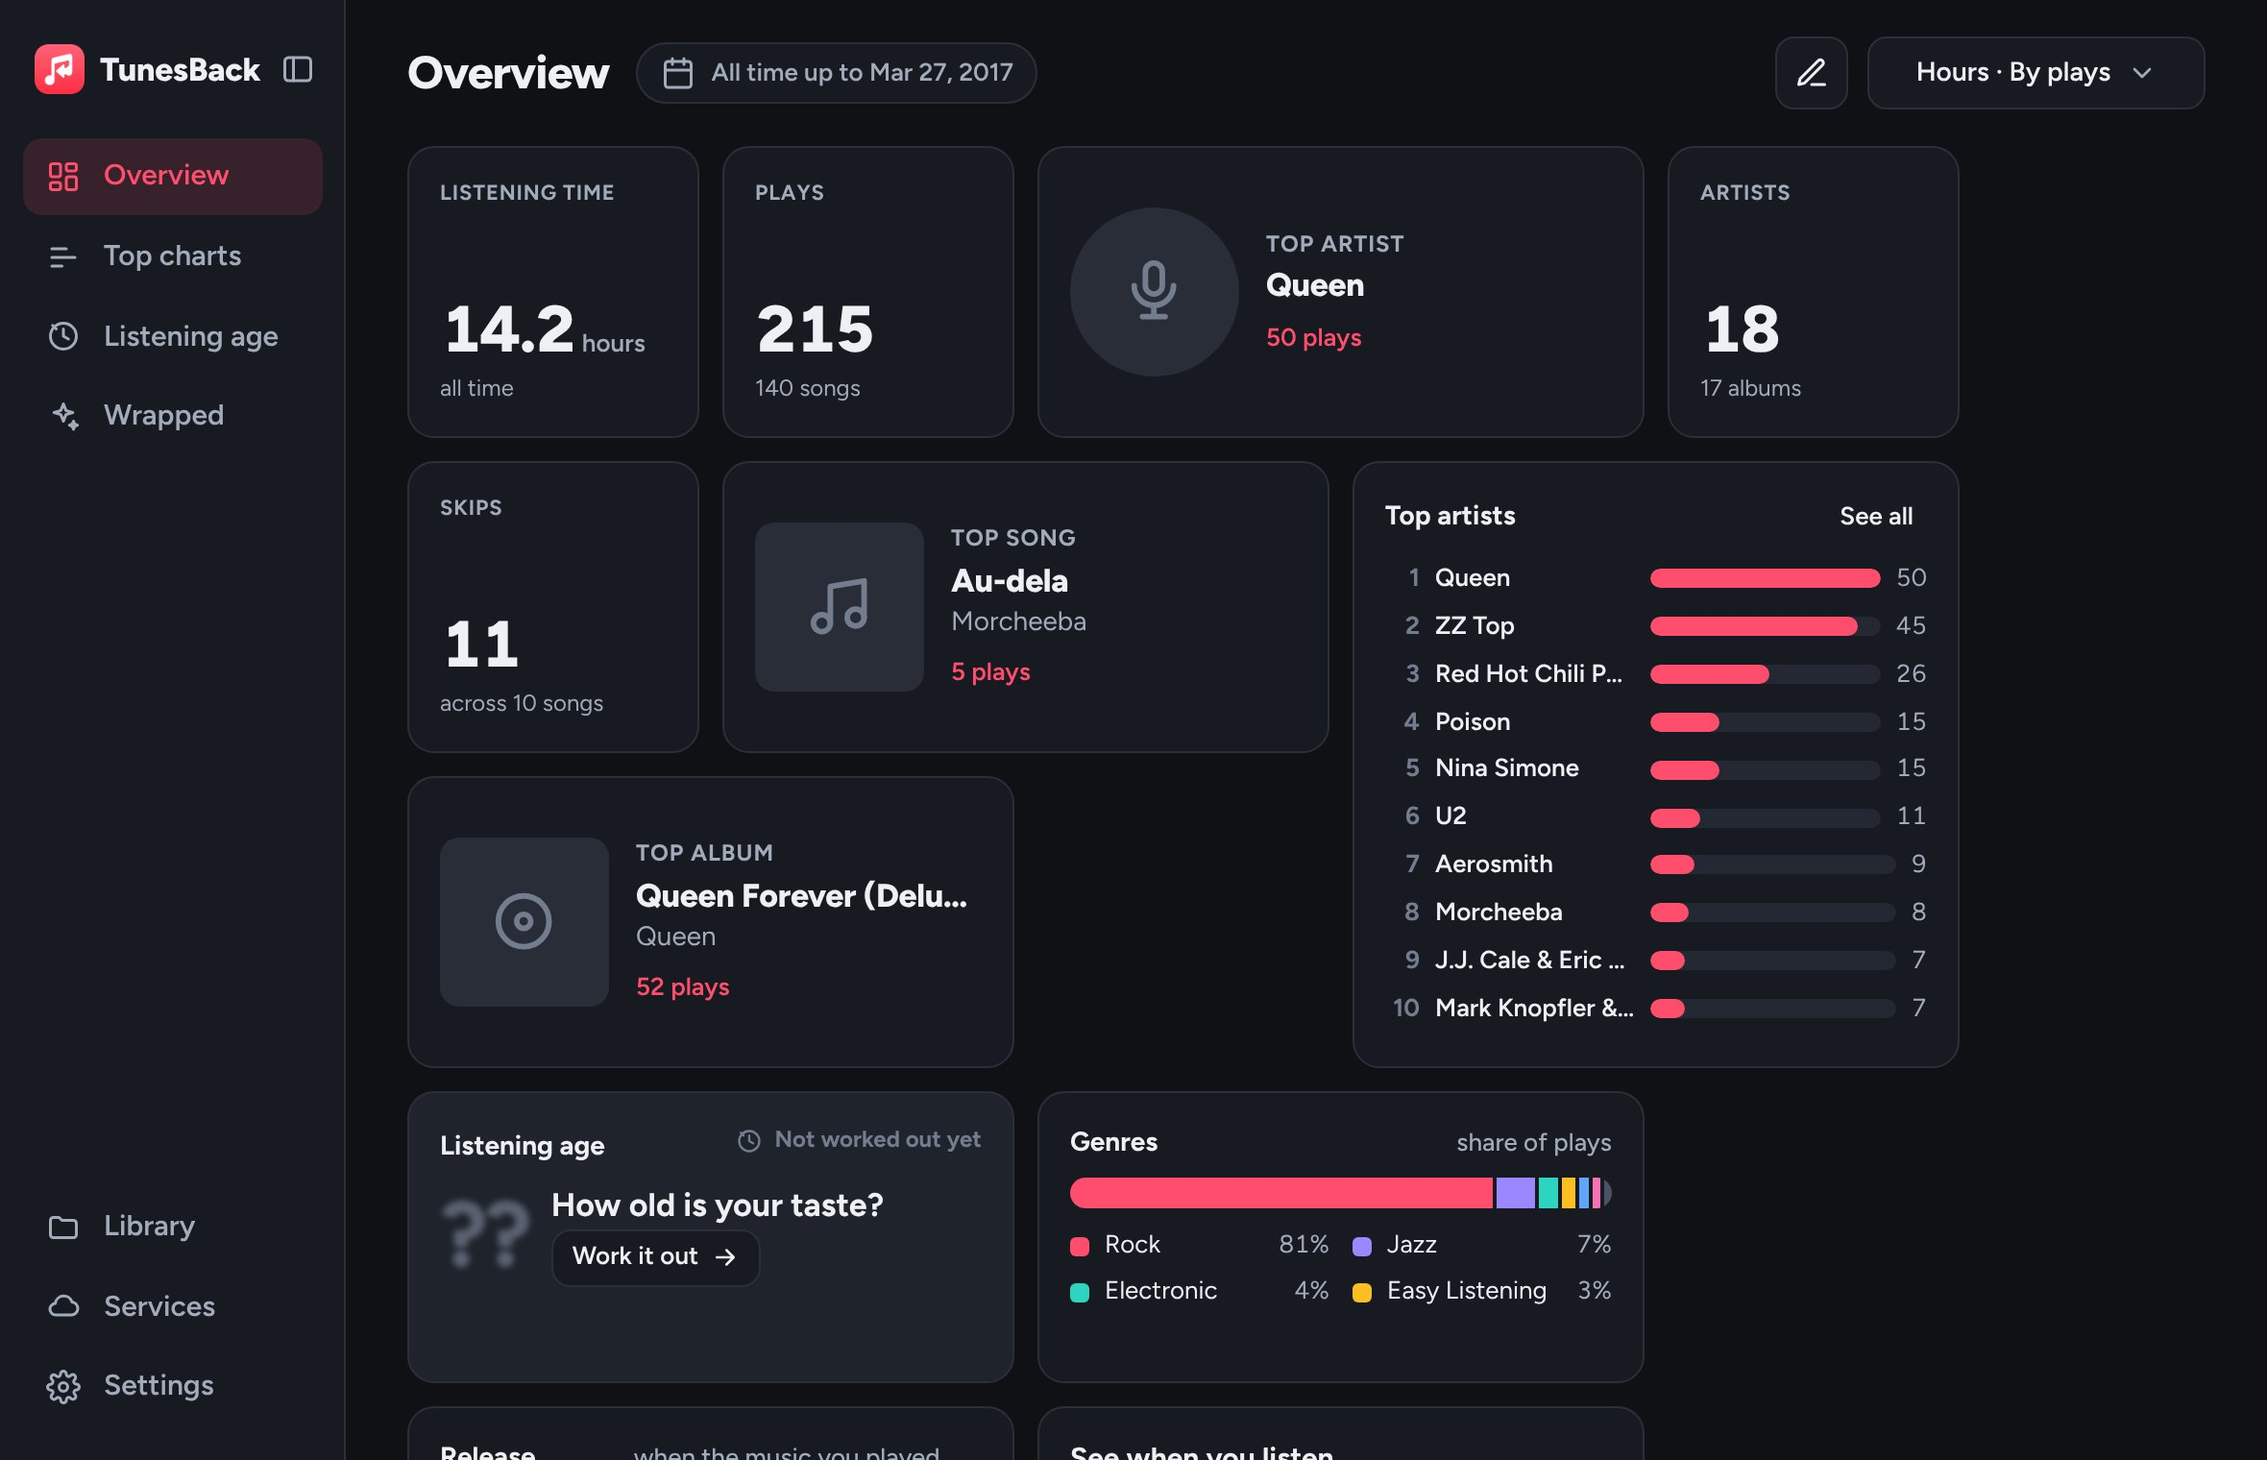
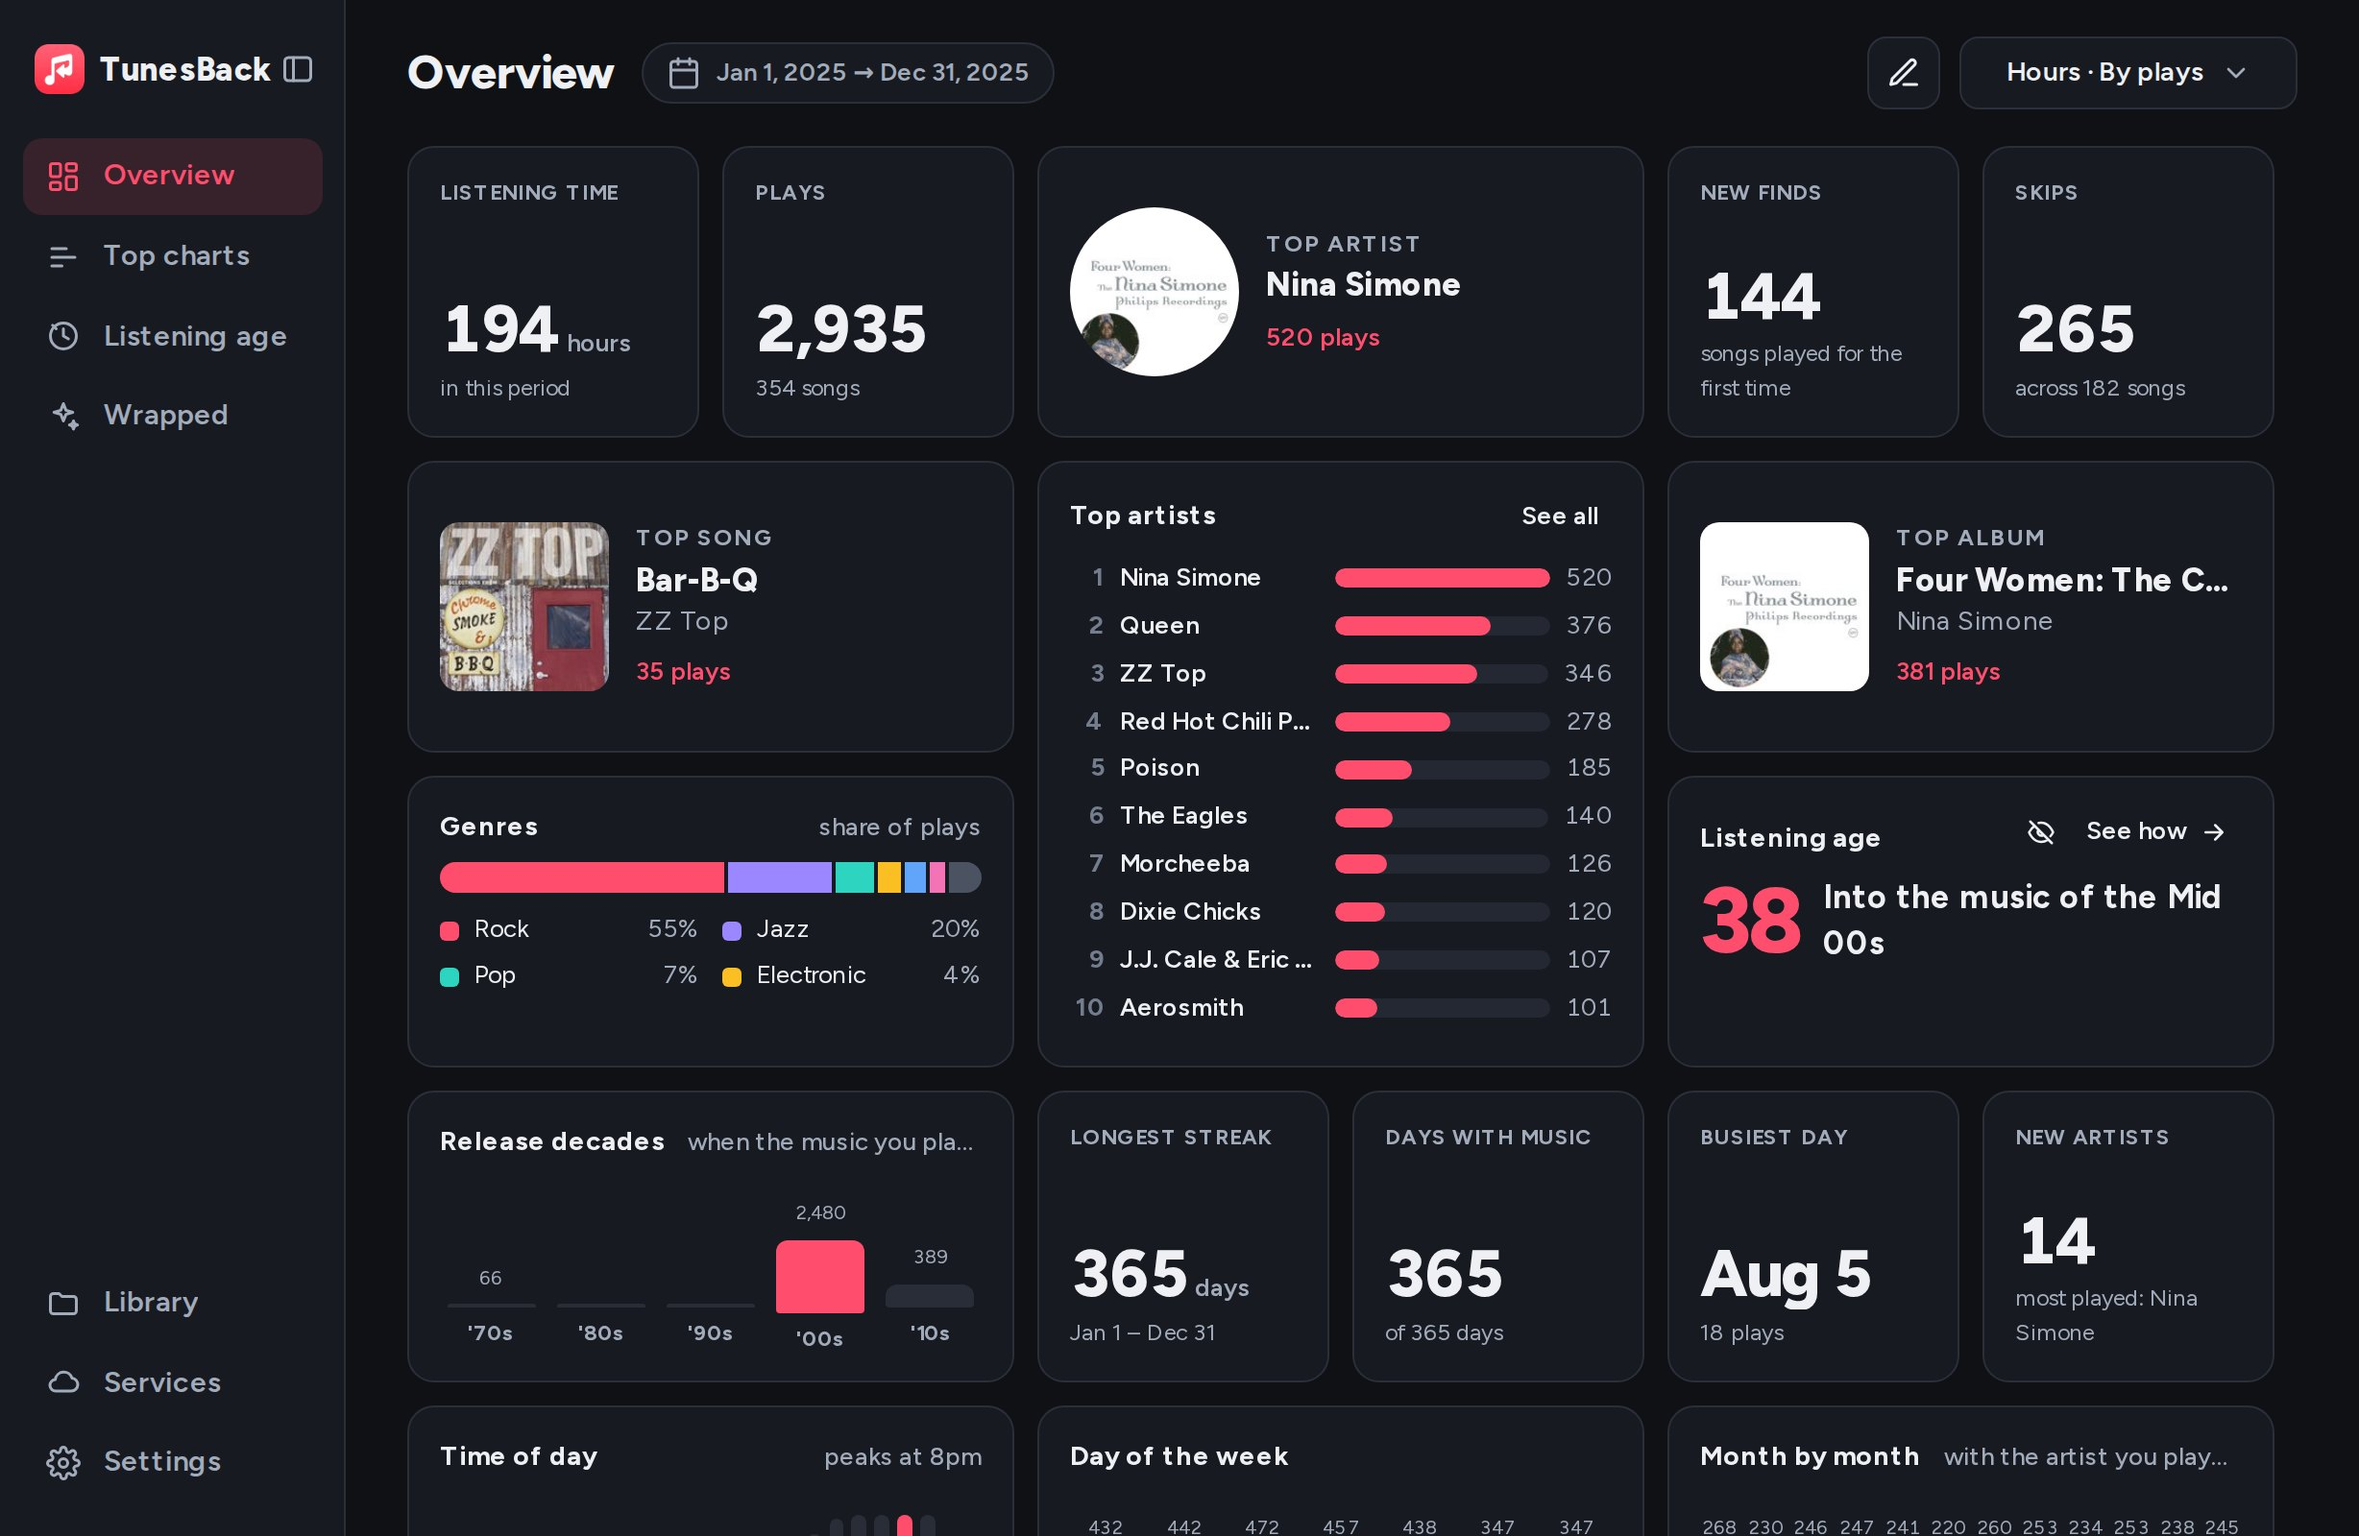
Screenshots retaken from the demo library with real covers (#10)
* Demo library: accept a relative output folder

Claude-Session: https://claude.ai/code/session_01GHvhivRj5PwLHChtmVuXqu

* Screenshots: keep the real home for Playwright's browser

Claude-Session: https://claude.ai/code/session_01GHvhivRj5PwLHChtmVuXqu

* Retake screenshots from the demo library

* Demo covers: search by the name up to its subtitle; wait for visible cards

Claude-Session: https://claude.ai/code/session_01GHvhivRj5PwLHChtmVuXqu

* Retake screenshots from the demo library

---------

diff --git a/packaging/demo/build_demo.py b/packaging/demo/build_demo.py
@@ -33,30 +33,40 @@ def safe(name: str) -> str:
     return re.sub(r'[\\/:*?"<>|]+', "_", name).strip() or "Unknown"
 
 
+def search(term: str) -> list:
+    query = urllib.parse.urlencode({"term": term, "entity": "album", "limit": 10, "media": "music"})
+    with urllib.request.urlopen(f"https://itunes.apple.com/search?{query}", timeout=20) as response:
+        return json.load(response).get("results", [])
+
+
 def fetch_cover(artist: str, album: str) -> bytes | None:
     """The album's cover from the iTunes Search API, at 600 px; None if it isn't found."""
-    query = urllib.parse.urlencode({"term": f"{artist} {album}", "entity": "album", "limit": 5, "media": "music"})
-    try:
-        with urllib.request.urlopen(f"https://itunes.apple.com/search?{query}", timeout=20) as response:
-            results = json.load(response).get("results", [])
-    except Exception as e:  # offline, rate limited: the album keeps its placeholder
-        print(f"  no cover for {artist} – {album}: {e}", file=sys.stderr)
-        return None
-    wanted = album.lower().split(" (")[0]
-    results.sort(key=lambda r: (wanted not in r.get("collectionName", "").lower(),
-                                artist.lower() not in r.get("artistName", "").lower()))
-    for result in results:
-        url = result.get("artworkUrl100")
-        if url:
-            try:
-                with urllib.request.urlopen(url.replace("100x100bb", "600x600bb"), timeout=20) as response:
-                    return response.read()
-            except Exception:
-                continue
+    # Long names ("Chrome, Smoke & BBQ: The ZZ Top Box (Box Set) [Remastered]") find nothing,
+    # so try the name up to its subtitle too.
+    short = re.split(r"\s*[:(\[]", album)[0].strip()
+    for term in dict.fromkeys([f"{artist} {album}", f"{artist} {short}"]):
+        try:
+            results = search(term)
+            time.sleep(3)  # the iTunes API allows about 20 requests a minute
+        except Exception as e:  # offline, rate limited: the album keeps its placeholder
+            print(f"  no cover for {artist} – {album}: {e}", file=sys.stderr)
+            return None
+        results = [r for r in results if artist.lower() in r.get("artistName", "").lower()]
+        results.sort(key=lambda r: short.lower() not in r.get("collectionName", "").lower())
+        for result in results:
+            url = result.get("artworkUrl100")
+            if url:
+                try:
+                    with urllib.request.urlopen(url.replace("100x100bb", "600x600bb"), timeout=20) as response:
+                        return response.read()
+                except Exception:
+                    continue
+    print(f"  no cover for {artist} – {album}", file=sys.stderr)
     return None
 
 
 def main(out: Path) -> None:
+    out = out.resolve()  # file URIs need an absolute path
     out.mkdir(parents=True, exist_ok=True)
     music = out / "Music"
     with SOURCE.open("rb") as f:
@@ -81,7 +91,6 @@ def main(out: Path) -> None:
             if cover:
                 (folder / "cover.jpg").write_bytes(cover)
             covers[key] = bool(cover)
-            time.sleep(0.4)  # the iTunes API allows about 20 requests a minute
         songs.append(track)
     with (out / "Library.xml").open("wb") as f:
         plistlib.dump(library, f)

diff --git a/packaging/demo/screenshots.py b/packaging/demo/screenshots.py
@@ -73,6 +73,9 @@ async def shoot(url: str, out: Path, chromium: str | None) -> None:
         await page.click(".nav-item[data-view=wrapped]")
         await page.wait_for_selector(".card-tile img", timeout=120_000)
         await page.wait_for_load_state("networkidle")
+        await page.wait_for_function("[...document.querySelectorAll('.card-tile img')].filter((i) => i.getBoundingClientRect().top < innerHeight)"
+                                     ".every((i) => i.complete && i.naturalWidth)",
+                                     timeout=120_000)
         await page.wait_for_timeout(3000)
         await snap("wrapped")
 
@@ -97,12 +100,17 @@ def main() -> None:
     args.out.mkdir(parents=True, exist_ok=True)
 
     with tempfile.TemporaryDirectory() as home:
-        os.environ.update({"HOME": home, "XDG_CONFIG_HOME": f"{home}/.config",
-                           "XDG_CACHE_HOME": f"{home}/.cache", "XDG_DATA_HOME": f"{home}/.local"})
+        # TunesBack gets the throwaway home; Playwright keeps the real one, where its browser is.
+        own = {"HOME": home, "XDG_CONFIG_HOME": f"{home}/.config",
+               "XDG_CACHE_HOME": f"{home}/.cache", "XDG_DATA_HOME": f"{home}/.local"}
+        real = dict(os.environ)
+        os.environ.update(own)
         seed(args.demo.resolve())
+        os.environ.clear()
+        os.environ.update(real)
         port = free_port()
         server = subprocess.Popen([sys.executable, "-m", "tunesback", "--browser", "--no-open", "--port", str(port)],
-                                  cwd=ROOT, env=os.environ)
+                                  cwd=ROOT, env={**real, **own})
         try:
             url = f"http://127.0.0.1:{port}/"
             for _ in range(120):
